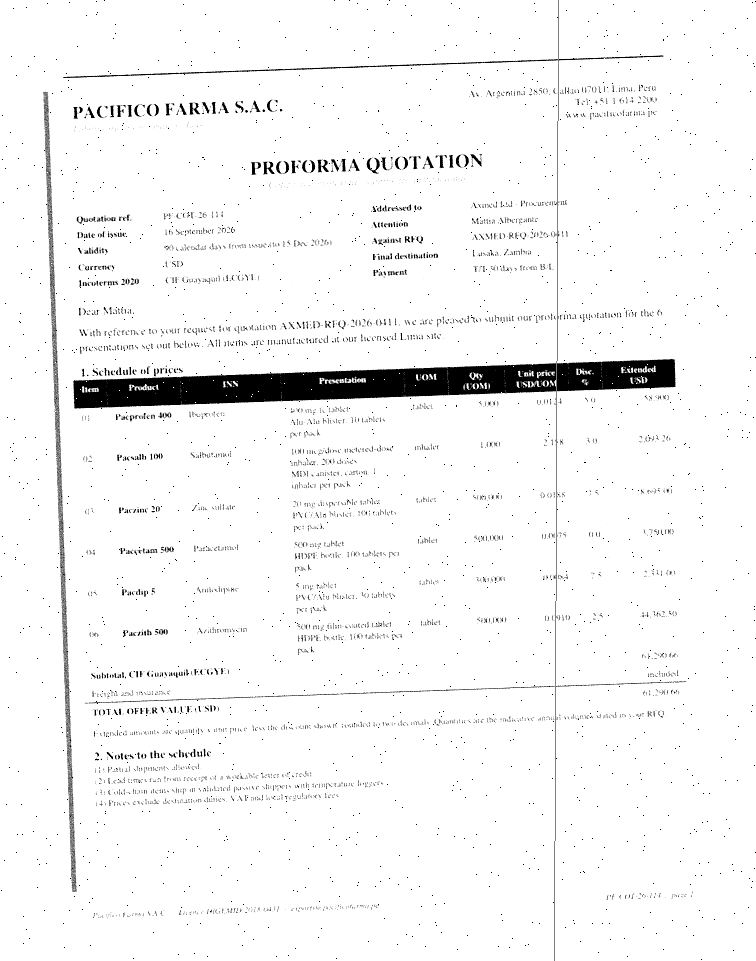
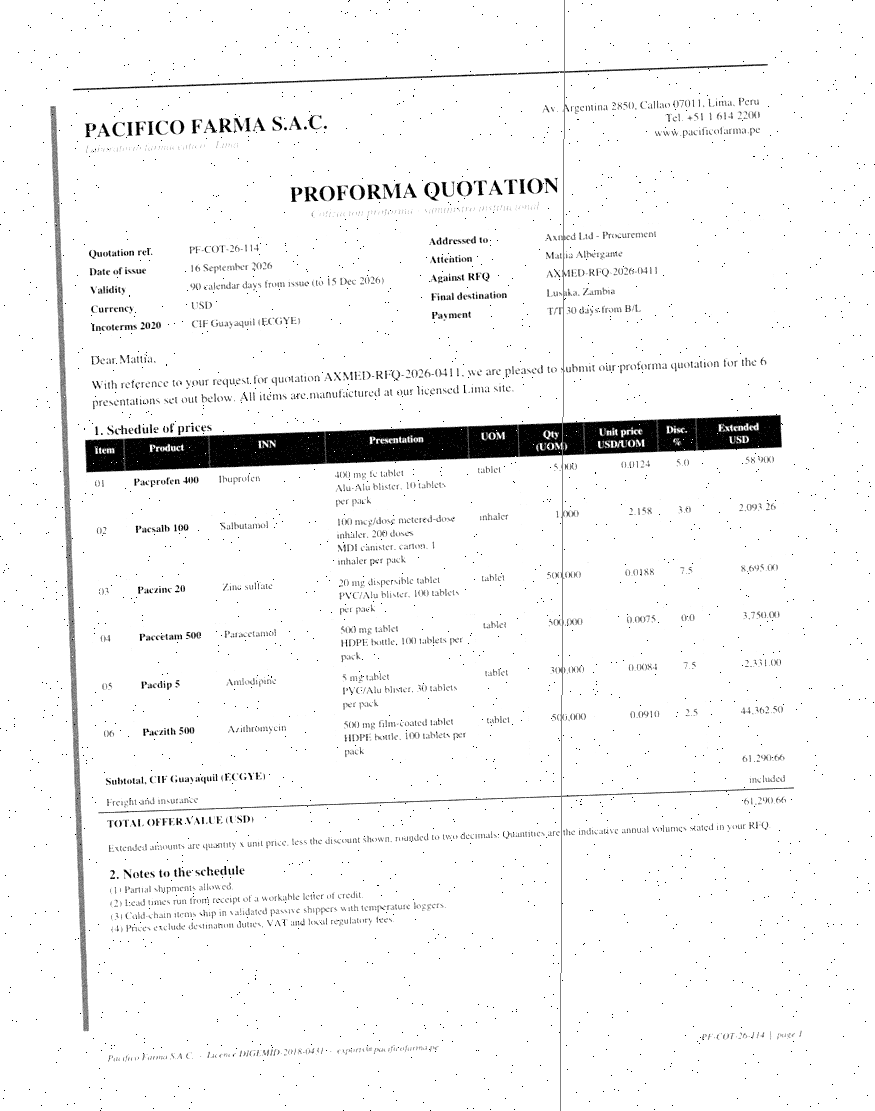
Synthetic fax was harsher than the real one, review by OCR showed it
RapidOCR recovers 12 of 13 prices on the provided fax but none on our
fax_01, so the degradation was over-tuned: resolution and contrast
crush eased to sit between the provided fax and the heavy case.

diff --git a/evals/synth/render_image.py b/evals/synth/render_image.py
@@ -86,11 +86,11 @@ def _finger(im: Image.Image, rng: random.Random) -> Image.Image:
 def degrade_fax(im: Image.Image, rng: random.Random) -> Image.Image:
     """Low resolution grayscale, slight skew, speckle, crushed contrast, like a fax or cheap scanner."""
     g = ImageOps.grayscale(im)
-    scale = rng.uniform(0.5, 0.62)
+    scale = rng.uniform(0.6, 0.7)
     g = g.resize((int(g.width * scale), int(g.height * scale)), Image.BILINEAR)
     g = g.rotate(rng.uniform(-2.2, 2.2), resample=Image.BICUBIC, expand=True, fillcolor=255)
-    g = _noise(g, rng, rng.uniform(8, 16))
-    g = g.point(lambda p: 0 if p < 90 else (255 if p > 185 else int(40 + (p - 90) * 2.1)))
+    g = _noise(g, rng, rng.uniform(6, 11))
+    g = g.point(lambda p: 0 if p < 70 else (255 if p > 200 else int(30 + (p - 70) * 1.7)))
     g = _salt_pepper(g, rng, rng.uniform(0.002, 0.006))
     # a streak from a dirty roller
     d = ImageDraw.Draw(g)
